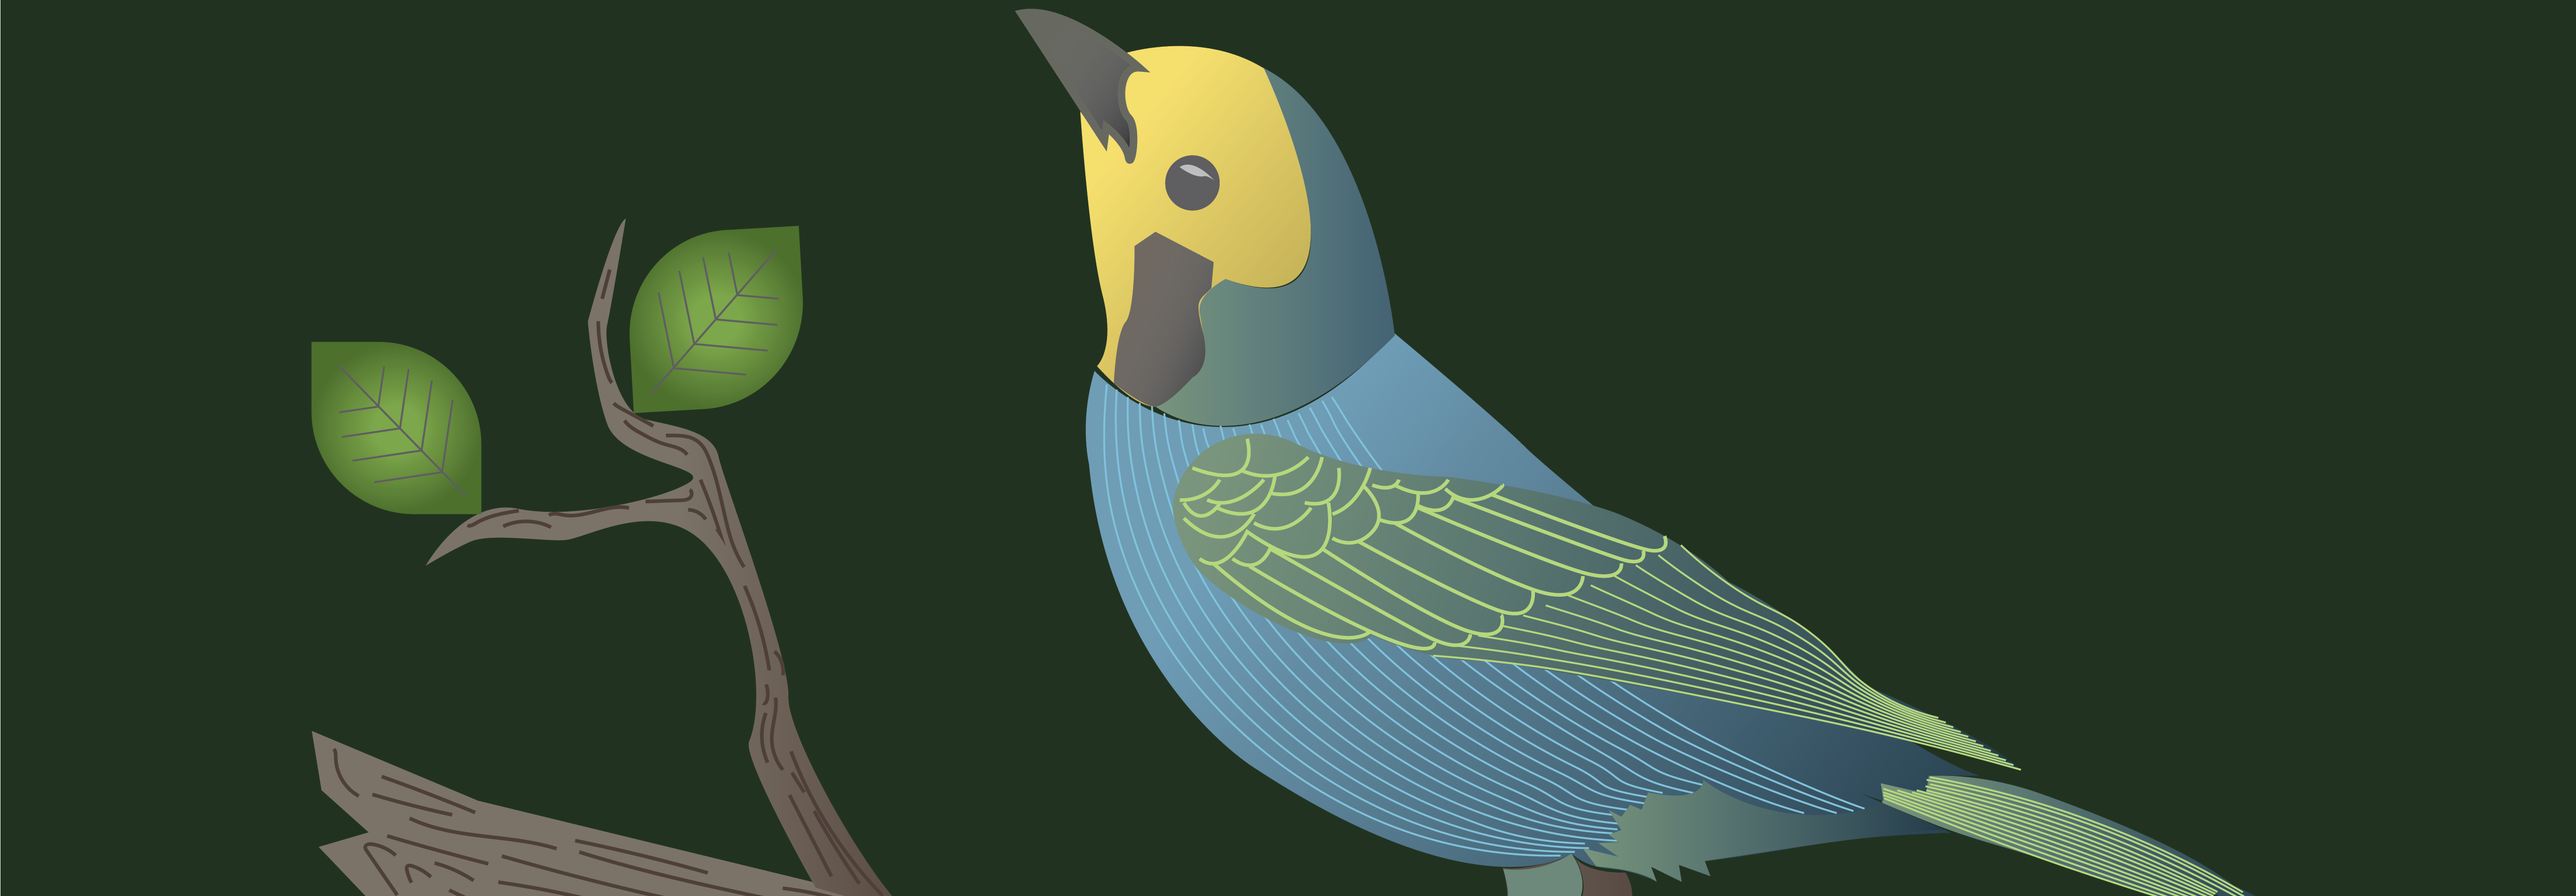
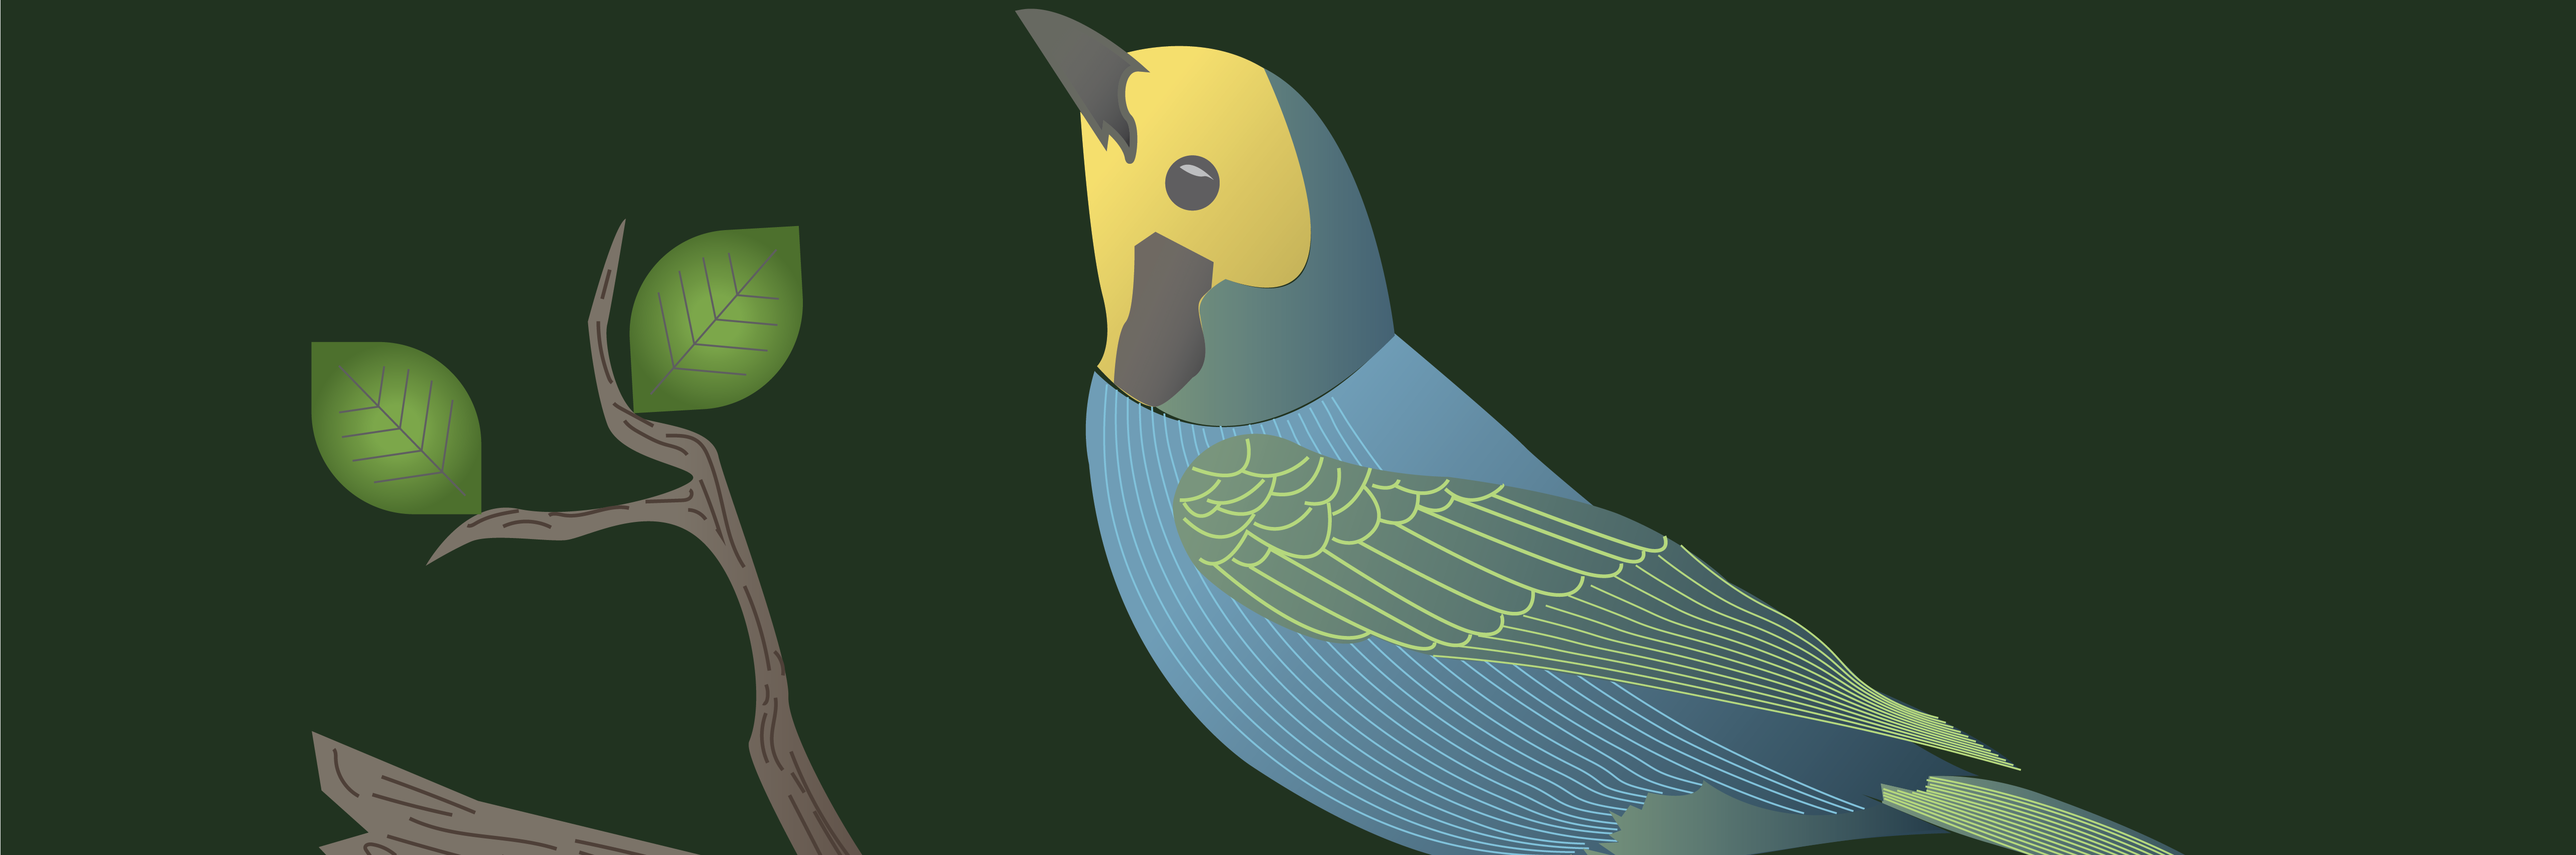
adding images

diff --git a/index.html b/index.html
@@ -41,7 +41,7 @@
                 <div class="textcontainer">
                     <h2 class="heading">Hi, I'm Anna Pham</h2>
                     <p class="pleft">
-                        I'm a dynamic designer with years of expertise in Adobe Creative Cloud, Figma, and HTML/CSS. Currently pursuing an SFSU Visual Communication Design major, I blend creativity with functionality to craft visually appealing, accessible, and user-friendly designs. Eager to contribute my skills to innovative projects and collaborate with like-minded professionals. This website is dedicated to my professional and personal life. 
+                        I'm a dynamic designer with years of expertise in Adobe Creative Cloud, Figma, and HTML/CSS. This website is dedicated to my professional and personal life. 
                     </p>
                 </div>
         </div>

diff --git a/css/style.css b/css/style.css
@@ -9,6 +9,10 @@
 body {
     width: 100%;
     min-height: 100vh;
+    background-image: url(../img/Mybamboo.png);
+    background-repeat: no-repeat;
+    background-position-x: 130%;
+    background-size: 50em;
 }
 
 /* HEADER */
